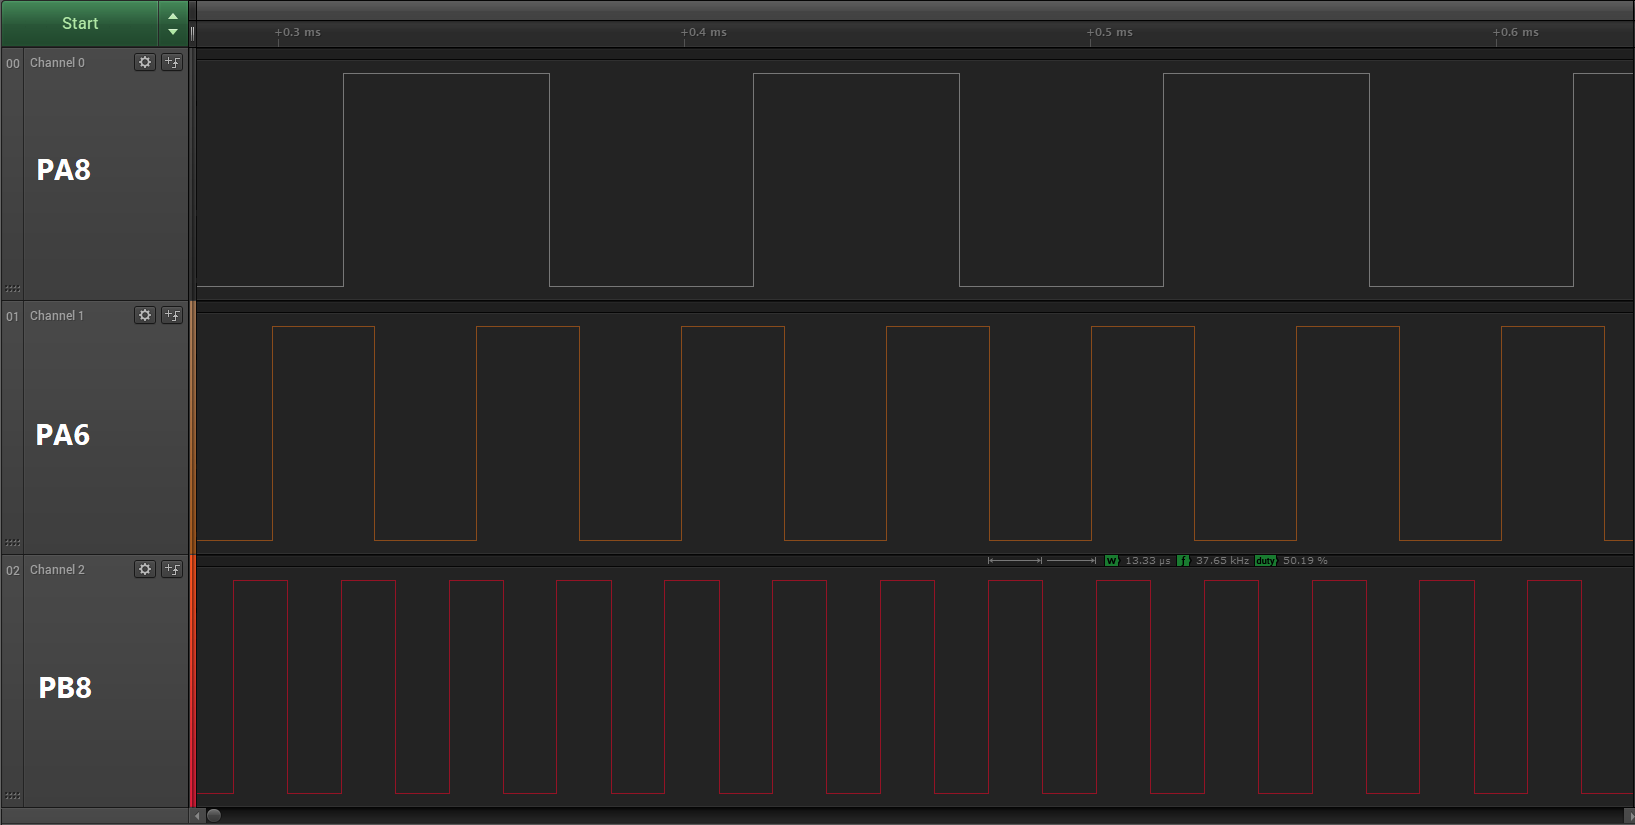
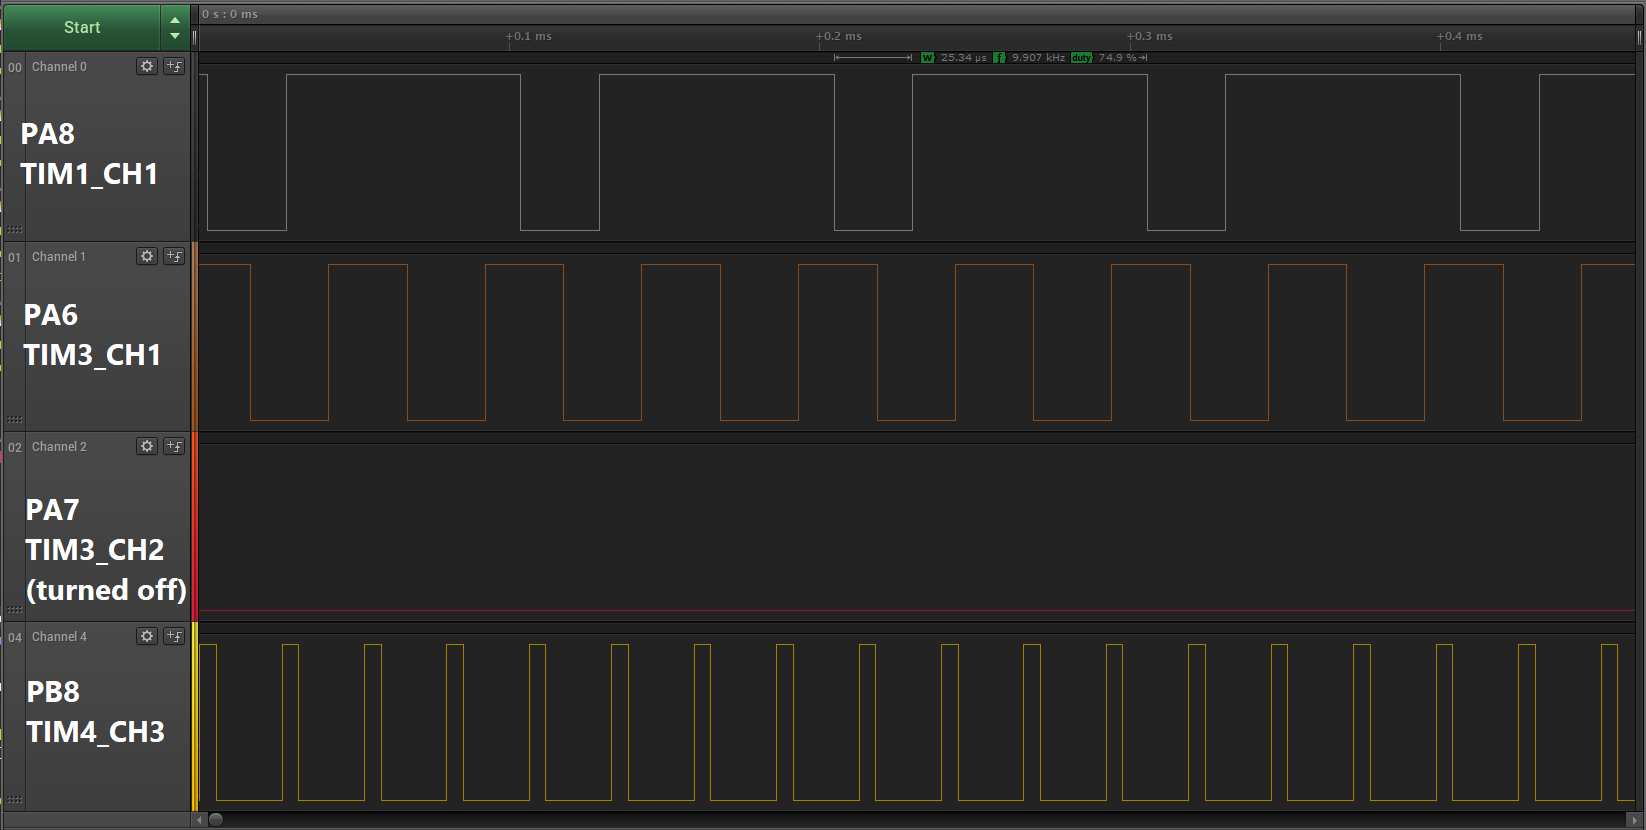
updated library
improved enable/disable PWM function to support independent channels. Enable TRGO self-resetting for support of basic Timer-based triggers.

diff --git a/lib/CH32V_PWM/ch32v_pwm.c b/lib/CH32V_PWM/ch32v_pwm.c
@@ -93,18 +93,26 @@ int init_pwm_base(PWM_handle *object, uint8_t iTimer, uint8_t iChannel, int iPin
         case PWM_TIM1:
             RCC_APB2PeriphClockCmd(RCC_APB2Periph_TIM1, ENABLE);
             TIM_TimeBaseInit( TIM1, &TIM_TimeBaseInitStructure);
+            TIM_SelectOutputTrigger(TIM1, TIM_TRGOSource_Update);       // Enable self-resetting TRGO-Event when no PWM configured
+            TIM_Cmd(TIM1, ENABLE);
             break;
         case PWM_TIM2:
             RCC_APB1PeriphClockCmd(RCC_APB1Periph_TIM2 , ENABLE);
             TIM_TimeBaseInit( TIM2, &TIM_TimeBaseInitStructure);
+            TIM_SelectOutputTrigger(TIM2, TIM_TRGOSource_Update);       // Enable self-resetting TRGO-Event when no PWM configured
+            TIM_Cmd(TIM2, ENABLE);
             break;
         case PWM_TIM3:
             RCC_APB1PeriphClockCmd(RCC_APB1Periph_TIM3 , ENABLE);
             TIM_TimeBaseInit( TIM3, &TIM_TimeBaseInitStructure);
+            TIM_SelectOutputTrigger(TIM3, TIM_TRGOSource_Update);       // Enable self-resetting TRGO-Event when no PWM configured
+            TIM_Cmd(TIM3, ENABLE);
             break;
         case PWM_TIM4:
             RCC_APB1PeriphClockCmd(RCC_APB1Periph_TIM4 , ENABLE);
             TIM_TimeBaseInit( TIM4, &TIM_TimeBaseInitStructure);
+            TIM_SelectOutputTrigger(TIM4, TIM_TRGOSource_Update);       // Enable self-resetting TRGO-Event when no PWM configured
+            TIM_Cmd(TIM4, ENABLE);
             break;
     }
     return 0;
@@ -289,19 +297,139 @@ void set_pwm_dutycycle(PWM_handle *object, uint16_t duty)
 void enable_pwm_output(PWM_handle *object)
 {
     // ---------- Enable timer ----------
+    // ---------- Re-Initialize base structure with TIM_OutputState_Enable ----------
+    TIM_OCInitTypeDef TIM_OCInitStructure={0};
+
+    if (object->pwm_mode == PWM_MODE1)
+    {
+        TIM_OCInitStructure.TIM_OCMode = TIM_OCMode_PWM1;
+    }
+    else
+    {
+        TIM_OCInitStructure.TIM_OCMode = TIM_OCMode_PWM2;
+    }
+    TIM_OCInitStructure.TIM_OutputState = TIM_OutputState_Enable;       // Ensure PWM-Output is turned on
+	TIM_OCInitStructure.TIM_Pulse = object->duty_cycle;
+	TIM_OCInitStructure.TIM_OCPolarity = TIM_OCPolarity_High;
+    // ---------- Configure Timer and Channel ----------
+    // This extensive selection matrix, should get optimized to few statements by compiler
     switch (object->timer)
     {
         case PWM_TIM1:
-            TIM_Cmd( TIM1, ENABLE );
+            switch (object->channel)
+            {
+                case PWM_CH1:
+                    TIM_OC1Init( TIM1, &TIM_OCInitStructure );
+                    TIM_CtrlPWMOutputs( TIM1, ENABLE );
+                    TIM_OC1PreloadConfig( TIM1, TIM_OCPreload_Disable );
+                    TIM_ARRPreloadConfig( TIM1, ENABLE );
+                    break;
+                case PWM_CH2:
+                    TIM_OC2Init( TIM1, &TIM_OCInitStructure );
+                    TIM_CtrlPWMOutputs( TIM1, ENABLE );
+                    TIM_OC2PreloadConfig( TIM1, TIM_OCPreload_Disable );
+                    TIM_ARRPreloadConfig( TIM1, ENABLE );
+                    break;
+                case PWM_CH3:
+                    TIM_OC3Init( TIM1, &TIM_OCInitStructure );
+                    TIM_CtrlPWMOutputs( TIM1, ENABLE );
+                    TIM_OC3PreloadConfig( TIM1, TIM_OCPreload_Disable );
+                    TIM_ARRPreloadConfig( TIM1, ENABLE );
+                    break;
+                case PWM_CH4:
+                    TIM_OC4Init( TIM1, &TIM_OCInitStructure );
+                    TIM_CtrlPWMOutputs( TIM1, ENABLE );
+                    TIM_OC4PreloadConfig( TIM1, TIM_OCPreload_Disable );
+                    TIM_ARRPreloadConfig( TIM1, ENABLE );
+                    break;
+            }
             break;
         case PWM_TIM2:
-            TIM_Cmd( TIM2, ENABLE );
+            switch (object->channel)
+            {
+                case PWM_CH1:
+                    TIM_OC1Init( TIM2, &TIM_OCInitStructure );
+                    TIM_CtrlPWMOutputs( TIM2, ENABLE );
+                    TIM_OC1PreloadConfig( TIM2, TIM_OCPreload_Disable );
+                    TIM_ARRPreloadConfig( TIM2, ENABLE );
+                    break;
+                case PWM_CH2:
+                    TIM_OC2Init( TIM2, &TIM_OCInitStructure );
+                    TIM_CtrlPWMOutputs( TIM2, ENABLE );
+                    TIM_OC2PreloadConfig( TIM2, TIM_OCPreload_Disable );
+                    TIM_ARRPreloadConfig( TIM2, ENABLE );
+                    break;
+                case PWM_CH3:
+                    TIM_OC3Init( TIM2, &TIM_OCInitStructure );
+                    TIM_CtrlPWMOutputs( TIM2, ENABLE );
+                    TIM_OC3PreloadConfig( TIM2, TIM_OCPreload_Disable );
+                    TIM_ARRPreloadConfig( TIM2, ENABLE );
+                    break;
+                case PWM_CH4:
+                    TIM_OC4Init( TIM2, &TIM_OCInitStructure );
+                    TIM_CtrlPWMOutputs( TIM2, ENABLE );
+                    TIM_OC4PreloadConfig( TIM2, TIM_OCPreload_Disable );
+                    TIM_ARRPreloadConfig( TIM2, ENABLE );
+                    break;
+            }
             break;
         case PWM_TIM3:
-            TIM_Cmd( TIM3, ENABLE );
+            switch (object->channel)
+            {
+                case PWM_CH1:
+                    TIM_OC1Init( TIM3, &TIM_OCInitStructure );
+                    TIM_CtrlPWMOutputs( TIM3, ENABLE );
+                    TIM_OC1PreloadConfig( TIM3, TIM_OCPreload_Disable );
+                    TIM_ARRPreloadConfig( TIM3, ENABLE );
+                    break;
+                case PWM_CH2:
+                    TIM_OC2Init( TIM3, &TIM_OCInitStructure );
+                    TIM_CtrlPWMOutputs( TIM3, ENABLE );
+                    TIM_OC2PreloadConfig( TIM3, TIM_OCPreload_Disable );
+                    TIM_ARRPreloadConfig( TIM3, ENABLE );
+                    break;
+                case PWM_CH3:
+                    TIM_OC3Init( TIM3, &TIM_OCInitStructure );
+                    TIM_CtrlPWMOutputs( TIM3, ENABLE );
+                    TIM_OC3PreloadConfig( TIM3, TIM_OCPreload_Disable );
+                    TIM_ARRPreloadConfig( TIM3, ENABLE );
+                    break;
+                case PWM_CH4:
+                    TIM_OC4Init( TIM3, &TIM_OCInitStructure );
+                    TIM_CtrlPWMOutputs( TIM3, ENABLE );
+                    TIM_OC4PreloadConfig( TIM3, TIM_OCPreload_Disable );
+                    TIM_ARRPreloadConfig( TIM3, ENABLE );
+                    break;
+            }
             break;
         case PWM_TIM4:
-            TIM_Cmd( TIM4, ENABLE );
+            switch (object->channel)
+            {
+                case PWM_CH1:
+                    TIM_OC1Init( TIM4, &TIM_OCInitStructure );
+                    TIM_CtrlPWMOutputs( TIM4, ENABLE );
+                    TIM_OC1PreloadConfig( TIM4, TIM_OCPreload_Disable );
+                    TIM_ARRPreloadConfig( TIM4, ENABLE );
+                    break;
+                case PWM_CH2:
+                    TIM_OC2Init( TIM4, &TIM_OCInitStructure );
+                    TIM_CtrlPWMOutputs( TIM4, ENABLE );
+                    TIM_OC2PreloadConfig( TIM4, TIM_OCPreload_Disable );
+                    TIM_ARRPreloadConfig( TIM4, ENABLE );
+                    break;
+                case PWM_CH3:
+                    TIM_OC3Init( TIM4, &TIM_OCInitStructure );
+                    TIM_CtrlPWMOutputs( TIM4, ENABLE );
+                    TIM_OC3PreloadConfig( TIM4, TIM_OCPreload_Disable );
+                    TIM_ARRPreloadConfig( TIM4, ENABLE );
+                    break;
+                case PWM_CH4:
+                    TIM_OC4Init( TIM4, &TIM_OCInitStructure );
+                    TIM_CtrlPWMOutputs( TIM4, ENABLE );
+                    TIM_OC4PreloadConfig( TIM4, TIM_OCPreload_Disable );
+                    TIM_ARRPreloadConfig( TIM4, ENABLE );
+                    break;
+            }
             break;
     }
 }
@@ -318,19 +446,139 @@ void enable_pwm_output(PWM_handle *object)
 void disable_pwm_output(PWM_handle *object)
 {
     // ---------- Disable timer ----------
+    // ---------- Re-Initialize base structure with TIM_OutputState_Disable ----------
+    TIM_OCInitTypeDef TIM_OCInitStructure={0};
+
+    if (object->pwm_mode == PWM_MODE1)
+    {
+        TIM_OCInitStructure.TIM_OCMode = TIM_OCMode_PWM1;
+    }
+    else
+    {
+        TIM_OCInitStructure.TIM_OCMode = TIM_OCMode_PWM2;
+    }
+    TIM_OCInitStructure.TIM_OutputState = TIM_OutputState_Disable;       // Ensure PWM-Output is turned off
+	TIM_OCInitStructure.TIM_Pulse = object->duty_cycle;
+	TIM_OCInitStructure.TIM_OCPolarity = TIM_OCPolarity_High;
+    // ---------- Configure Timer and Channel ----------
+    // This extensive selection matrix, should get optimized to few statements by compiler
     switch (object->timer)
     {
         case PWM_TIM1:
-            TIM_Cmd( TIM1, DISABLE );
+            switch (object->channel)
+            {
+                case PWM_CH1:
+                    TIM_OC1Init( TIM1, &TIM_OCInitStructure );
+                    TIM_CtrlPWMOutputs( TIM1, ENABLE );
+                    TIM_OC1PreloadConfig( TIM1, TIM_OCPreload_Disable );
+                    TIM_ARRPreloadConfig( TIM1, ENABLE );
+                    break;
+                case PWM_CH2:
+                    TIM_OC2Init( TIM1, &TIM_OCInitStructure );
+                    TIM_CtrlPWMOutputs( TIM1, ENABLE );
+                    TIM_OC2PreloadConfig( TIM1, TIM_OCPreload_Disable );
+                    TIM_ARRPreloadConfig( TIM1, ENABLE );
+                    break;
+                case PWM_CH3:
+                    TIM_OC3Init( TIM1, &TIM_OCInitStructure );
+                    TIM_CtrlPWMOutputs( TIM1, ENABLE );
+                    TIM_OC3PreloadConfig( TIM1, TIM_OCPreload_Disable );
+                    TIM_ARRPreloadConfig( TIM1, ENABLE );
+                    break;
+                case PWM_CH4:
+                    TIM_OC4Init( TIM1, &TIM_OCInitStructure );
+                    TIM_CtrlPWMOutputs( TIM1, ENABLE );
+                    TIM_OC4PreloadConfig( TIM1, TIM_OCPreload_Disable );
+                    TIM_ARRPreloadConfig( TIM1, ENABLE );
+                    break;
+            }
             break;
         case PWM_TIM2:
-            TIM_Cmd( TIM2, DISABLE );
+            switch (object->channel)
+            {
+                case PWM_CH1:
+                    TIM_OC1Init( TIM2, &TIM_OCInitStructure );
+                    TIM_CtrlPWMOutputs( TIM2, ENABLE );
+                    TIM_OC1PreloadConfig( TIM2, TIM_OCPreload_Disable );
+                    TIM_ARRPreloadConfig( TIM2, ENABLE );
+                    break;
+                case PWM_CH2:
+                    TIM_OC2Init( TIM2, &TIM_OCInitStructure );
+                    TIM_CtrlPWMOutputs( TIM2, ENABLE );
+                    TIM_OC2PreloadConfig( TIM2, TIM_OCPreload_Disable );
+                    TIM_ARRPreloadConfig( TIM2, ENABLE );
+                    break;
+                case PWM_CH3:
+                    TIM_OC3Init( TIM2, &TIM_OCInitStructure );
+                    TIM_CtrlPWMOutputs( TIM2, ENABLE );
+                    TIM_OC3PreloadConfig( TIM2, TIM_OCPreload_Disable );
+                    TIM_ARRPreloadConfig( TIM2, ENABLE );
+                    break;
+                case PWM_CH4:
+                    TIM_OC4Init( TIM2, &TIM_OCInitStructure );
+                    TIM_CtrlPWMOutputs( TIM2, ENABLE );
+                    TIM_OC4PreloadConfig( TIM2, TIM_OCPreload_Disable );
+                    TIM_ARRPreloadConfig( TIM2, ENABLE );
+                    break;
+            }
             break;
         case PWM_TIM3:
-            TIM_Cmd( TIM3, DISABLE );
+            switch (object->channel)
+            {
+                case PWM_CH1:
+                    TIM_OC1Init( TIM3, &TIM_OCInitStructure );
+                    TIM_CtrlPWMOutputs( TIM3, ENABLE );
+                    TIM_OC1PreloadConfig( TIM3, TIM_OCPreload_Disable );
+                    TIM_ARRPreloadConfig( TIM3, ENABLE );
+                    break;
+                case PWM_CH2:
+                    TIM_OC2Init( TIM3, &TIM_OCInitStructure );
+                    TIM_CtrlPWMOutputs( TIM3, ENABLE );
+                    TIM_OC2PreloadConfig( TIM3, TIM_OCPreload_Disable );
+                    TIM_ARRPreloadConfig( TIM3, ENABLE );
+                    break;
+                case PWM_CH3:
+                    TIM_OC3Init( TIM3, &TIM_OCInitStructure );
+                    TIM_CtrlPWMOutputs( TIM3, ENABLE );
+                    TIM_OC3PreloadConfig( TIM3, TIM_OCPreload_Disable );
+                    TIM_ARRPreloadConfig( TIM3, ENABLE );
+                    break;
+                case PWM_CH4:
+                    TIM_OC4Init( TIM3, &TIM_OCInitStructure );
+                    TIM_CtrlPWMOutputs( TIM3, ENABLE );
+                    TIM_OC4PreloadConfig( TIM3, TIM_OCPreload_Disable );
+                    TIM_ARRPreloadConfig( TIM3, ENABLE );
+                    break;
+            }
             break;
         case PWM_TIM4:
-            TIM_Cmd( TIM4, DISABLE );
+            switch (object->channel)
+            {
+                case PWM_CH1:
+                    TIM_OC1Init( TIM4, &TIM_OCInitStructure );
+                    TIM_CtrlPWMOutputs( TIM4, ENABLE );
+                    TIM_OC1PreloadConfig( TIM4, TIM_OCPreload_Disable );
+                    TIM_ARRPreloadConfig( TIM4, ENABLE );
+                    break;
+                case PWM_CH2:
+                    TIM_OC2Init( TIM4, &TIM_OCInitStructure );
+                    TIM_CtrlPWMOutputs( TIM4, ENABLE );
+                    TIM_OC2PreloadConfig( TIM4, TIM_OCPreload_Disable );
+                    TIM_ARRPreloadConfig( TIM4, ENABLE );
+                    break;
+                case PWM_CH3:
+                    TIM_OC3Init( TIM4, &TIM_OCInitStructure );
+                    TIM_CtrlPWMOutputs( TIM4, ENABLE );
+                    TIM_OC3PreloadConfig( TIM4, TIM_OCPreload_Disable );
+                    TIM_ARRPreloadConfig( TIM4, ENABLE );
+                    break;
+                case PWM_CH4:
+                    TIM_OC4Init( TIM4, &TIM_OCInitStructure );
+                    TIM_CtrlPWMOutputs( TIM4, ENABLE );
+                    TIM_OC4PreloadConfig( TIM4, TIM_OCPreload_Disable );
+                    TIM_ARRPreloadConfig( TIM4, ENABLE );
+                    break;
+            }
             break;
     }
 }

diff --git a/src/main.c b/src/main.c
@@ -64,18 +64,20 @@ int main(void)
     // Initialize PWM on PA8 (TIM1_CH1) with 10kHz Base frequency
     PWM_handle PWM_A8={0};
     init_pwm(&PWM_A8, PWM_TIM1, PWM_CH1, 0xA8, 10000);
-    set_pwm_dutycycle(&PWM_A8, 128);              // set  PWM duty cycle to 50% initially
-    enable_pwm_output(&PWM_A8);                 // start PWM output
+    set_pwm_dutycycle(&PWM_A8, 191);              // set  PWM duty cycle to ~75% (191/255) initially, setting dutycycle automatically starts PWM output
     // Initialize PWM on PA6 (TIM3_CH1) with 20kHz Base frequency
     PWM_handle PWM_A6={0};
     init_pwm(&PWM_A6, PWM_TIM3, PWM_CH1, 0xA6, 20000);
-    set_pwm_dutycycle(&PWM_A6, 128);              // set  PWM duty cycle to 50% initially
-    enable_pwm_output(&PWM_A6);                 // start PWM output
+    set_pwm_dutycycle(&PWM_A6, 128);              // set  PWM duty cycle to 50% (128/255) initially, setting dutycycle automatically starts PWM output
+    // Initialize PWM on PA7 (TIM3_CH2) with 20kHz Base frequency
+    PWM_handle PWM_A7={0};
+    init_pwm(&PWM_A7, PWM_TIM3, PWM_CH2, 0xA7, 20000);
+    set_pwm_dutycycle(&PWM_A7, 128);              // set  PWM duty cycle to 50% (128/255) initially, setting dutycycle automatically starts PWM output
+    disable_pwm_output(&PWM_A7);                  // Disable output, demonstrate independant channels
     // Initialize PWM on PB8 (TIM4_CH3) with 40kHz Base frequency
     PWM_handle PWM_B8={0};
     init_pwm(&PWM_B8, PWM_TIM4, PWM_CH3, 0xB8, 40000);
-    set_pwm_dutycycle(&PWM_B8, 128);              // set  PWM duty cycle to 50% initially
-    enable_pwm_output(&PWM_B8);                 // start PWM output
+    set_pwm_dutycycle(&PWM_B8, 51);              // set  PWM duty cycle to ~20% (51/255) initially, setting dutycycle automatically starts PWM output
 
     // Comment out if PA9/PA10 wanted as PWM Output
     USART_Printf_Init(115200);

diff --git a/README.md b/README.md
@@ -56,18 +56,21 @@ int main(void)
     // Initialize PWM on PA8 (TIM1_CH1) with 10kHz Base frequency
     PWM_handle PWM_A8={0};
     init_pwm(&PWM_A8, PWM_TIM1, PWM_CH1, 0xA8, 10000);
-    set_pwm_dutycycle(&PWM_A8, 128);              // set  PWM duty cycle to 50% initially
-    enable_pwm_output(&PWM_A8);                 // start PWM output
+    set_pwm_dutycycle(&PWM_A8, 191);              // set  PWM duty cycle to ~75% (191/255) initially, setting dutycycle automatically starts PWM output
     // Initialize PWM on PA6 (TIM3_CH1) with 20kHz Base frequency
     PWM_handle PWM_A6={0};
     init_pwm(&PWM_A6, PWM_TIM3, PWM_CH1, 0xA6, 20000);
-    set_pwm_dutycycle(&PWM_A6, 128);              // set  PWM duty cycle to 50% initially
-    enable_pwm_output(&PWM_A6);                 // start PWM output
+    set_pwm_dutycycle(&PWM_A6, 128);              // set  PWM duty cycle to 50% (128/255) initially, setting dutycycle automatically starts PWM output
+    // Initialize PWM on PA7 (TIM3_CH2) with 20kHz Base frequency
+    PWM_handle PWM_A7={0};
+    init_pwm(&PWM_A7, PWM_TIM3, PWM_CH2, 0xA7, 20000);
+    set_pwm_dutycycle(&PWM_A7, 128);              // set  PWM duty cycle to 50% (128/255) initially, setting dutycycle automatically starts PWM output
+    disable_pwm_output(&PWM_A7);                  // Disable output, demonstrate independant channels
     // Initialize PWM on PB8 (TIM4_CH3) with 40kHz Base frequency
     PWM_handle PWM_B8={0};
     init_pwm(&PWM_B8, PWM_TIM4, PWM_CH3, 0xB8, 40000);
-    set_pwm_dutycycle(&PWM_B8, 128);              // set  PWM duty cycle to 50% initially
-    enable_pwm_output(&PWM_B8);                 // start PWM output
+    set_pwm_dutycycle(&PWM_B8, 51);              // set  PWM duty cycle to ~20% (51/255) initially, setting dutycycle automatically starts PWM output
+
 
     // ---------- Endless Loop Code ----------
     while ( 1 )
